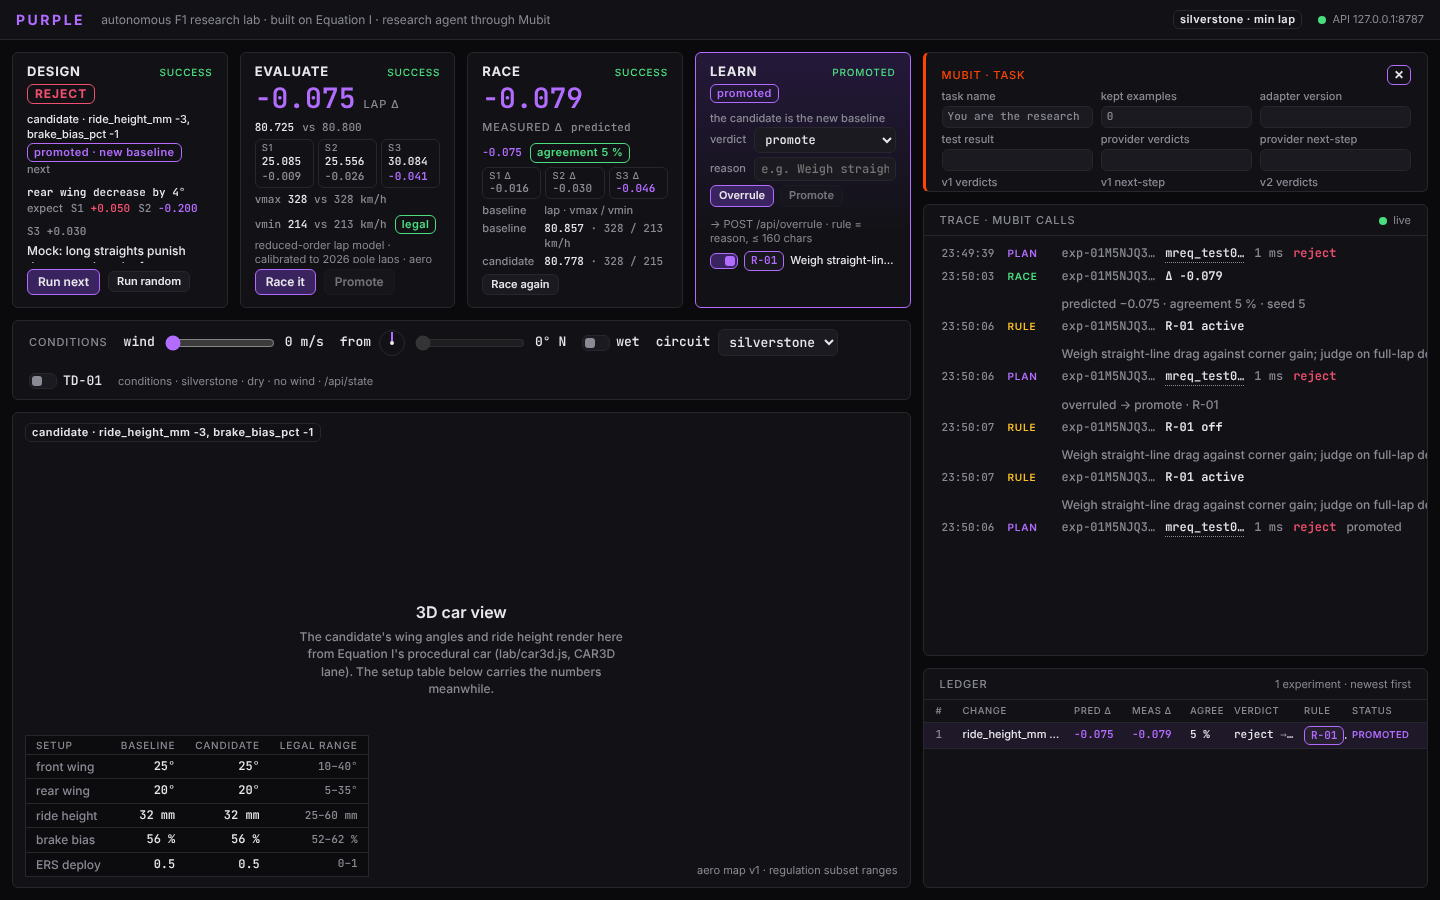
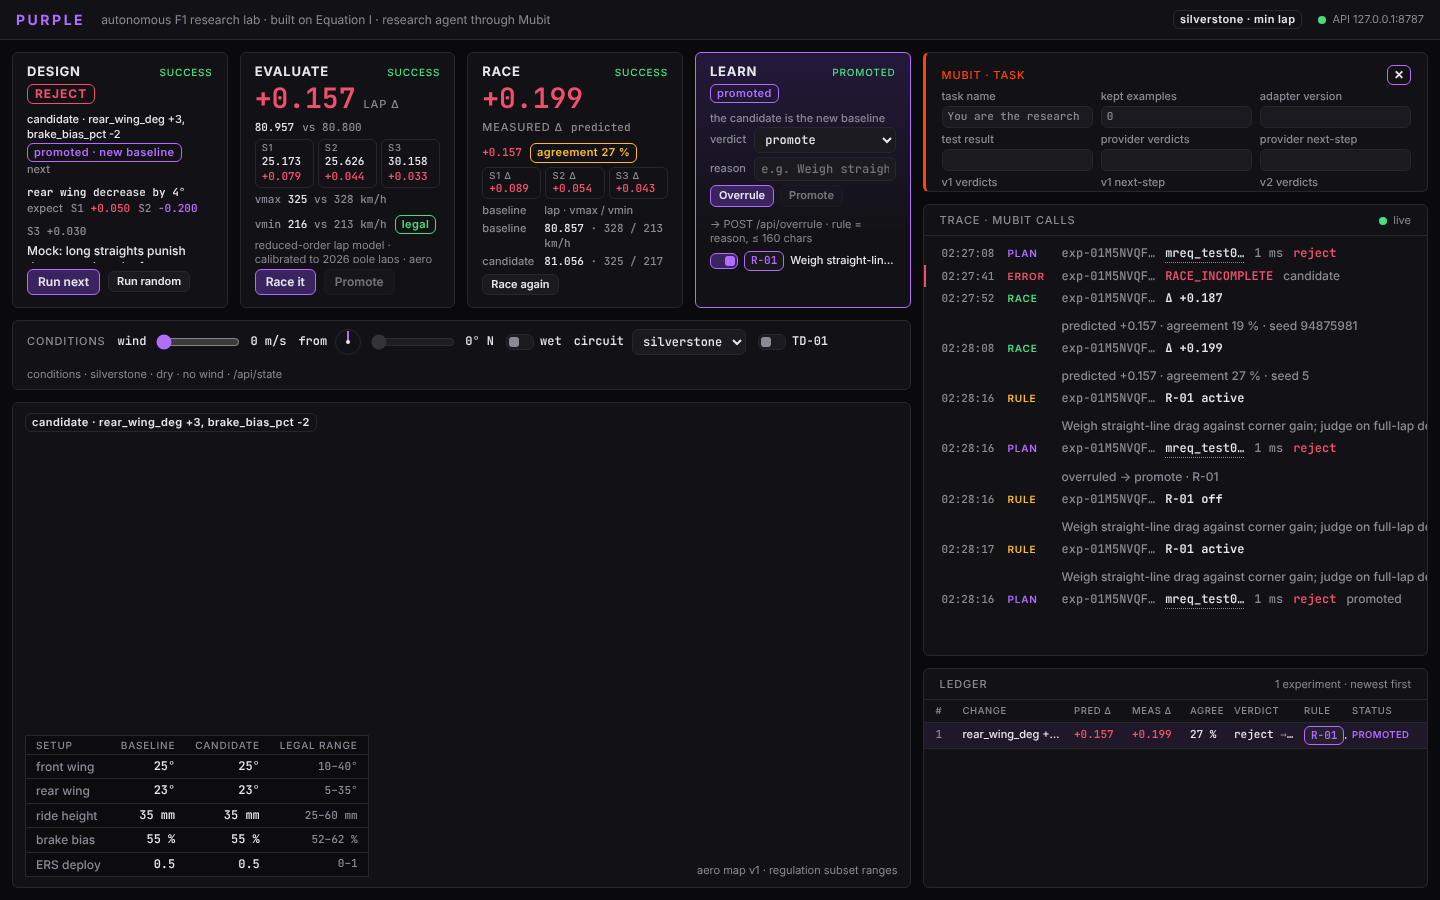
P3.T2: UI polish round 1 — SERVER review fixes, race clock + 6-min timeout, real 3D car wired, re-verified with web security on
lab/lab.js: retry reuses x-client-id after NETWORK/BAD_RESPONSE; widget reads last_console_read_at, budget line, prompt hash;
incomplete purple:result -> RACE_INCOMPLETE with Race again instead of a 400; elapsed clock on the RACE card and NO_RESULT
after 6 minutes; overrule uses the server row; saveStatus sends only changed exam keys; car3d setBaseline + mount error shown.
lab/index.html: loads season2026, ads (brand dir), teams, liveries, carglb so lab/car3d.js mounts. lab/lab.css: setup table
bottom-right, hidden while racing. Screenshots refreshed.

Claude-Session: https://claude.ai/code/session_01LerQvr7T9YvRQxL76EErVH

diff --git a/lab/lab.js b/lab/lab.js
@@ -8,6 +8,7 @@
   const LAPS = 3;                                   // F-04.AC1: three laps, no input
   const FLAT = 0.03;                                // DeltaCell: |Δ| ≤ 0.03 s is grey (the prompt's own retest band)
   const TRACE_MAX = 200, BACKFILL = 12;
+  const RACE_TIMEOUT_MS = 6 * 60 * 1000;             // EVAL_GUARDRAILS §6: no purple:result within 6 minutes -> "No result received"
   const $ = (s, root) => (root || document).querySelector(s);
   const isNum = v => typeof v === "number" && Number.isFinite(v);
   const reduced = () => window.matchMedia && window.matchMedia("(prefers-reduced-motion: reduce)").matches;
@@ -151,8 +152,9 @@
   function renderRace() {
     const x = S.current, e = S.err.race, m = x && x.measured;
     if (S.busy.raceResult) return card("race", { state: "loading", stateLabel: "posting result", body: [el("p", { text: "POST /api/race/result" })] });
-    if (e) return card("race", { state: "error", body: errBody(e), foot: [btn("Retry", e.retry, { cls: "primary" }), btn("Back to 3D view", cancelRace, { cls: "small" })] });
+    if (e) return card("race", { state: "error", body: errBody(e), foot: [e.again ? btn("Race again", raceIt, { cls: "primary" }) : btn("Retry", e.retry, { cls: "primary" }), btn("Back to 3D view", cancelRace, { cls: "small" })] });
     if (S.racing) return card("race", { state: "loading", stateLabel: "racing", body: [
+      el("div", { class: "row" }, el("span", { class: "big num", id: "raceClock", text: fmtClock(Date.now() - S.racing.started) }), el("span", { class: "label", text: "elapsed" }), el("span", { class: "muted sans", text: "a " + LAPS + "-lap race takes about 4½ minutes" })),
       el("p", { text: "Waiting for result · baseline vs candidate · same neutral driver · " + LAPS + " laps · seed " + S.racing.seed + "." }),
       el("div", { class: "src", text: "the game posts purple:result when the chequered flag falls" })], foot: [btn("Cancel", cancelRace, { cls: "small" })] });
     if (!m) return card("race", { state: "empty", body: [el("p", { text: "Race the candidate against the baseline in the game: same neutral driver, same seed, broadcast camera." })], foot: [btn("Race it", raceIt, { cls: "primary", disabled: !(x && x.evaluation && isNum(x.evaluation.lap)) })] });
@@ -197,19 +199,21 @@
     game.hidden = !racing; car.hidden = racing;
     if (!racing && game.getAttribute("src")) game.removeAttribute("src");
     const corner = $("#mainCorner");
-    corner.replaceChildren(...(racing ? [el("span", { class: "badge green", text: "RACE · baseline vs candidate" }), el("span", { class: "src", text: "seed " + S.racing.seed + " · " + LAPS + " laps · broadcast camera · neutral driver" })]
-      : [el("span", { class: "badge", text: x ? "candidate · " + (x.change || "no change") : "baseline" })]));
+    corner.replaceChildren(...(racing ? [] : [el("span", { class: "badge", text: x ? "candidate · " + (x.change || "no change") : "baseline" })]));
     const setup = x ? x.candidate : (S.illegalCandidate || (S.state && S.state.baseline));
     if (EI.labCar3D && !racing) {
       try {
         if (!S.car3dMounted) { EI.labCar3D.mount(car); S.car3dMounted = true; }
         const key = JSON.stringify(setup || null);
-        if (setup && key !== S.car3dSetupKey) { S.car3dSetupKey = key; EI.labCar3D.setSetup(setup); if (x && EI.labCar3D.hero) EI.labCar3D.hero(); }
-      } catch (e) { /* the 3D view is decorative; the numbers below are the product */ }
-      empty.hidden = true;
+        if (setup && key !== S.car3dSetupKey) { S.car3dSetupKey = key; if (EI.labCar3D.setBaseline) EI.labCar3D.setBaseline(x ? x.baseline : null); EI.labCar3D.setSetup(setup); }
+      } catch (e) {   // the 3D view is decorative; the numbers below are the product. Say why it is missing rather than hide it.
+        S.car3dError = String(e && e.message || e);
+        $("#mainEmpty .inner").replaceChildren(el("div", { class: "h", text: "3D car view unavailable" }), el("span", { text: S.car3dError }));
+      }
+      empty.hidden = S.car3dMounted && !S.car3dError;
     } else empty.hidden = racing;
     $("#mainSrc").textContent = racing ? "Equation I · ?lab=1 broadcast mode" : S.car3dMounted ? "procedural car · wing angles and ride height from the setup · aero map v1" : "aero map v1 · regulation subset ranges";
-    $("#setupBox").replaceChildren(setupTable());
+    $("#setupBox").replaceChildren(racing ? el("span") : setupTable());   // while racing the game's HUD owns the frame
   }
   function setupTable() {
     const aero = EI.aero; if (!aero) return el("span");
@@ -229,7 +233,7 @@
 
   // ---- MubitWidget: GET /api/status; edit form POSTs partial values (the console is the source, this is the copy)
   function renderWidget(editing) {
-    const w = $("#widget"), s = S.status || {}, ex = s.exam || {}, total = ex.total || 20;
+    const w = $("#widget"), s = S.status || {}, ex = s.exam || {}, total = ex.total || 20, b = s.budget;
     const examLine = (who, v, p) => (isNum(v) || isNum(p) ? el("div", { class: "exam" }, el("b", { text: who }), " " + (isNum(v) ? v + "/" + total + " verdicts" : "—") + (isNum(p) ? " · " + p + "/" + total + " next-step" : "")) : null);
     const head = el("div", { class: "head" }, el("span", { class: "label", text: "Mubit · task" }), el("button", { class: "btn icon", type: "button", "aria-label": editing ? "cancel editing" : "edit status (values from the console)", title: "edit values copied from the console", onclick: () => renderWidget(!editing) }, editing ? "✕" : "✎"));
     if (editing) {
@@ -250,16 +254,18 @@
         el("div", { class: "fact" }, el("div", { class: "label", text: "calls" }), el("div", { class: "v num", text: isNum(s.calls_total) ? s.calls_total + " · " + s.calls_trained + " trained" : "—" }))),
       examLine("provider", ex.provider, ex.provider_param) || el("div", { class: "exam muted sans", text: "exam not run yet (20 held-out scenarios, truth from the evaluator)" }),
       examLine("v1", ex.v1, ex.v1_param), examLine("v2", ex.v2, ex.v2_param),
-      el("div", { class: "src upd", text: (s.updated_at ? "updated from console " + hhmm(s.updated_at) : "not yet read from the console") + " · " + (s.model || "") + (s.prompt_version ? " · prompt v" + s.prompt_version : "") })].filter(Boolean));
+      el("div", { class: "src upd" },
+        el("span", { text: (s.last_console_read_at ? "updated from console " + hhmm(s.last_console_read_at) : s.updated_at ? "status written " + hhmm(s.updated_at) + " · console not read yet" : "not yet read from the console") + " · " + (s.model || "") + (s.prompt_version ? " · prompt v" + s.prompt_version : "") + (s.prompt_hash ? " " + String(s.prompt_hash).slice(0, 8) : "") }),
+        b ? el("span", { class: "budget", title: "Mubit daily budget: calls today by UTC day; resets " + (b.resets_at ? hhmm(b.resets_at) + " local (" + (b.boundary || "00:00 UTC") + ")" : "00:00 UTC"), text: "budget today (UTC) · trained " + (b.trained_today_utc ?? "—") + " · untrained " + (b.untrained_today_utc ?? "—") + (b.resets_at ? " · resets " + hhmm(b.resets_at) : "") }) : null)].filter(Boolean));
   }
   async function saveStatus(fd) {
-    const patch = {}, exam = Object.assign({}, (S.status && S.status.exam) || {});
+    const patch = {}, exam = {}, cur = (S.status && S.status.exam) || {};
     const num = v => (v === "" || v == null ? undefined : Number(v));
     for (const k of ["task_name", "adapter_version", "test_result"]) { const v = fd.get(k); if (v != null && String(v).trim() !== "" && v !== (S.status || {})[k]) patch[k] = String(v).trim(); }
     const ke = num(fd.get("kept_examples")); if (isNum(ke)) patch.kept_examples = ke;
     let examChanged = false;
-    for (const k of ["provider", "provider_param", "v1", "v1_param", "v2", "v2_param"]) { const v = num(fd.get(k)); if (isNum(v) && exam[k] !== v) { exam[k] = v; examChanged = true; } }
-    if (examChanged) patch.exam = Object.assign({ total: 20 }, exam);
+    for (const k of ["provider", "provider_param", "v1", "v1_param", "v2", "v2_param"]) { const v = num(fd.get(k)); if (isNum(v) && cur[k] !== v) { exam[k] = v; examChanged = true; } }
+    if (examChanged) patch.exam = isNum(cur.total) ? exam : Object.assign({ total: 20 }, exam);   // POST /api/status merges one level deep (D-S15)
     try { S.status = await api("POST", "/api/status", patch); clearBanner(); renderWidget(false); }
     catch (e) { banner(e); renderWidget(false); }
   }
@@ -326,7 +332,7 @@
     on("race", d => {
       const m = d.measured || {};
       trace({ kind: "race", key: "race:" + d.id + ":" + m.at, at: m.at, session: d.session_id, verdict: "Δ " + fmtD(m.measured_delta), note: "predicted " + fmtD(m.predicted_delta) + " · agreement " + fmtPct(m.agreement_pct) + " · seed " + m.seed });
-      if (S.racing && S.racing.id === d.id) { S.racing = null; S.busy.raceResult = false; S.active = "race"; }
+      if (S.racing && S.racing.id === d.id) { stopRaceClock(); S.racing = null; S.busy.raceResult = false; S.active = "race"; }
       if (!S.current || S.current.id === d.id) S.current = d;
       renderAll();
     });
@@ -347,10 +353,10 @@
   async function refreshRules() { try { S.rules = await api("GET", "/api/rules"); renderLearn(); } catch (e) { /* same */ } }
 
   // ---- actions
-  async function runPlan(o) {
+  async function runPlan(o, clientId) {
     o = o || {};
     if (S.busy.plan) return;
-    const clientId = uuid();
+    clientId = clientId || uuid();   // a retry after NETWORK/BAD_RESPONSE reuses the id: the server dedupes x-client-id for 10 s, so a lost response never costs a second trained call
     const body = {}; if (o.random) body.random = true;
     if (o.candidate || o.conditions || o.seed != null || o.circuit) body.scenario_overrides = Object.assign({}, o.candidate ? { candidate: o.candidate } : {}, o.conditions ? { conditions: o.conditions } : {}, o.seed != null ? { seed: o.seed } : {}, o.circuit ? { circuit: o.circuit } : {});
     S.busy.plan = true; delete S.err.design; S.illegalCandidate = null; S.active = "design"; clearBanner(); renderAll();
@@ -359,7 +365,7 @@
       const x = await api("POST", "/api/plan", body, { "x-client-id": clientId });
       S.current = x; S.active = "evaluate"; traceExperiment(x);
     } catch (e) {
-      e.retry = () => runPlan(o);
+      e.retry = () => runPlan(o, e.code === "NETWORK" || e.code === "BAD_RESPONSE" ? clientId : undefined);
       if (e.code === "ILLEGAL_SETUP") { S.illegalCandidate = e.extra.candidate || null; trace({ kind: "error", session: "client " + clientId.slice(0, 8), error: "ILLEGAL_SETUP", note: (e.extra.violations || []).map(id => EI.aero && EI.aero.describeViolation ? EI.aero.describeViolation(id) : id).join(" · ") || e.message }); }
       else if (e.extra && e.extra.experiment) { S.current = e.extra.experiment; }
       else if (e.code === "NETWORK" || e.code === "BAD_RESPONSE") trace({ kind: "error", session: "client " + clientId.slice(0, 8), error: e.code, note: e.endpoint });
@@ -373,22 +379,46 @@
     const q = new URLSearchParams({ lab: "1", exp: x.id, seed: String(x.seed), laps: String(LAPS), circuit, baseline: b64(x.baseline), candidate: b64(x.candidate),
       mult_baseline: b64(EI.aero.toMultipliers(x.baseline, c)), mult_candidate: b64(EI.aero.toMultipliers(x.candidate, c)) });
     S.racing = { id: x.id, seed: x.seed, started: Date.now() }; delete S.err.race; S.active = "race"; clearBanner();
-    renderAll();
+    renderAll(); startRaceClock();
     $("#game").src = "../index.html?" + q.toString();
   }
-  function cancelRace() { S.racing = null; delete S.err.race; S.busy.raceResult = false; renderAll(); }
+  function cancelRace() { stopRaceClock(); S.racing = null; delete S.err.race; S.busy.raceResult = false; renderAll(); }
   function carsFrom(d) {   // tolerate { baseline: {…}, candidate: {…} } as well as the contract's cars[] (SERVER lane, P1.T3 entry)
     if (Array.isArray(d.cars)) return d.cars;
     if (d.baseline && d.candidate) return ["baseline", "candidate"].map(role => Object.assign({ role }, d[role]));
     return undefined;
   }
+  // a car that never completed a lap posts null lap/sectors/speeds; the server would 400 on the field, so say "race incomplete" instead of relaying
+  const carIncomplete = k => !k || !isNum(k.lap) || !Array.isArray(k.sectors) || k.sectors.length !== 3 || !k.sectors.every(isNum) || !isNum(k.vmax_kmh) || !isNum(k.vmin_becketts_kmh);
   window.addEventListener("message", ev => {   // ARCHITECTURE §10: same-origin game iframe only, and only the result message
     if (ev.origin !== location.origin) return;
     const d = ev.data; if (!d || typeof d !== "object" || d.type !== "purple:result") return;
     const cars = carsFrom(d);
     const payload = { experiment_id: d.experiment_id || d.exp || (S.racing && S.racing.id), seed: Number.isInteger(d.seed) ? d.seed : Number.isInteger(+d.seed) ? +d.seed : (S.racing ? S.racing.seed : undefined), cars };
-    postRaceResult(payload);
+    if (!Array.isArray(cars) || cars.length !== 2 || cars.some(carIncomplete)) {
+      const who = Array.isArray(cars) ? cars.filter(carIncomplete).map(k => (k && k.role) || "car").join(", ") : "both cars";
+      stopRaceClock(); S.racing = null; S.err.race = Object.assign(new ApiErr("RACE_INCOMPLETE", "purple:result (game iframe)", "race incomplete: no completed lap for " + who + "; nothing was posted"), { again: true });
+      trace({ kind: "error", session: payload.experiment_id ? "exp-" + payload.experiment_id : null, error: "RACE_INCOMPLETE", note: who }); renderAll(); return;
+    }
+    stopRaceClock(); postRaceResult(payload);
   });
+  // the race clock: elapsed time on the RACE card while the game runs; "No result received" after RACE_TIMEOUT_MS
+  let raceTimer = null;
+  function startRaceClock() {
+    stopRaceClock();
+    raceTimer = setInterval(() => {
+      if (!S.racing) return stopRaceClock();
+      const ms = Date.now() - S.racing.started;
+      if (ms >= RACE_TIMEOUT_MS) {
+        stopRaceClock(); S.racing = null;
+        S.err.race = Object.assign(new ApiErr("NO_RESULT", "purple:result (game iframe)", "No result received within " + Math.round(RACE_TIMEOUT_MS / 60000) + " minutes; the ledger row stays as it was"), { again: true });
+        trace({ kind: "error", session: "exp-" + (S.current && S.current.id), error: "NO_RESULT", note: "no purple:result in " + Math.round(RACE_TIMEOUT_MS / 60000) + " min" }); renderAll(); return;
+      }
+      const n = $("#raceClock"); if (n) n.textContent = fmtClock(ms);
+    }, 1000);
+  }
+  function stopRaceClock() { if (raceTimer) clearInterval(raceTimer); raceTimer = null; }
+  const fmtClock = ms => { const t = Math.floor(ms / 1000); return String(Math.floor(t / 60)).padStart(2, "0") + ":" + String(t % 60).padStart(2, "0"); };
   async function postRaceResult(payload) {
     S.lastRacePayload = payload; S.busy.raceResult = true; delete S.err.race; renderAll();
     try { const row = await api("POST", "/api/race/result", payload); S.current = row; S.racing = null; S.active = "race"; clearBanner(); }
@@ -406,7 +436,7 @@
   async function overrule(verdict, reason) {
     const x = S.current; if (!x || S.busy.learn) return;
     S.busy.learn = "overruling"; delete S.err.learn; clearBanner(); renderAll();
-    try { const r = await api("POST", "/api/overrule", { experiment_id: x.id, verdict, reason }); S.current = Object.assign({}, x, { status: "overruled", overrule: { verdict, reason, rule_id: r.rule.id, by: "engineer", at: r.rule.created_at } }); S.active = "learn"; await refreshRules(); }
+    try { const r = await api("POST", "/api/overrule", { experiment_id: x.id, verdict, reason }); S.current = r.experiment || Object.assign({}, x, { status: "overruled", overrule: { verdict, reason, rule_id: r.rule.id, by: "engineer", at: r.rule.created_at } }); S.active = "learn"; await refreshRules(); }
     catch (e) { e.retry = () => overrule(verdict, reason); S.err.learn = e; banner(e); }
     finally { S.busy.learn = false; renderAll(); scheduleLedger(); }
   }

diff --git a/lab/index.html b/lab/index.html
@@ -67,8 +67,28 @@
 <script src="../js/util.js"></script>
 <script src="../js/data/silverstone.js"></script>
 <script src="../js/data/monza.js"></script>
+<script src="../js/data/season2026.js"></script>
+<script src="../js/ads.js"></script>
+<script>// the game resolves its brand artwork relative to the page; from lab/ that is one level up (as lab/car3d-test.html does)
+  if (window.EI && EI.Ads) { EI.Ads.BRAND_DIR = '../assets/brand/'; EI.Ads.PARTNER_DIR = EI.Ads.BRAND_DIR + 'partners/'; }</script>
+<script src="../js/teams.js"></script>
+<script src="../js/liveries.js"></script>
+<script src="../js/liveries/mercedes.js"></script>
+<script src="../js/liveries/ferrari.js"></script>
+<script src="../js/liveries/mclaren.js"></script>
+<script src="../js/liveries/redbull.js"></script>
+<script src="../js/liveries/racingbulls.js"></script>
+<script src="../js/liveries/alpine.js"></script>
+<script src="../js/liveries/haas.js"></script>
+<script src="../js/liveries/audi.js"></script>
+<script src="../js/liveries/williams.js"></script>
+<script src="../js/liveries/astonmartin.js"></script>
+<script src="../js/liveries/cadillac.js"></script>
+<script src="../js/liveries/lumi.js"></script>
+<script src="../js/liveries/intake.js"></script>
 <script src="../js/track.js"></script>
 <script src="../js/carmodel.js"></script>
+<script src="../js/carglb.js"></script>
 <script src="../js/car.js"></script>
 <script src="../js/ai.js"></script>
 <script src="aero.js"></script>

diff --git a/lab/lab.css b/lab/lab.css
@@ -114,7 +114,7 @@ body.has-banner .lab { height: calc(100% - 40px - 41px); }
 #car3d { position: absolute; inset: 0; }
 #car3d canvas { display: block; width: 100%; height: 100%; }
 #game { position: absolute; inset: 0; width: 100%; height: 100%; border: 0; background: #000; }
-.main .overlay { position: absolute; left: 12px; right: 12px; bottom: 10px; display: flex; justify-content: space-between; align-items: flex-end; gap: 12px; pointer-events: none; }
+.main .overlay { position: absolute; left: 12px; right: 12px; bottom: 10px; display: flex; flex-direction: row-reverse; justify-content: space-between; align-items: flex-end; gap: 12px; pointer-events: none; }   /* table bottom-right: the hero angle puts the front wing bottom-left */
 .main .overlay > * { pointer-events: auto; }
 .main .corner { position: absolute; top: 10px; left: 12px; display: flex; gap: 8px; align-items: center; }
 .setup-table { border-collapse: collapse; font-size: 12px; background: rgba(10,10,12,.72); border: 1px solid var(--line); border-radius: var(--r); }
@@ -223,3 +223,4 @@ body.has-banner .lab { height: calc(100% - 40px - 41px); }
 /* conditions bar while a POST /api/state is in flight */
 .cond.busy { opacity: .7; }
 .cond input:disabled { opacity: .35; }
+.widget .budget { display: block; color: var(--mubit); opacity: .85; }

diff --git a/docs/agents/lanes/UI.md b/docs/agents/lanes/UI.md
@@ -1,10 +1,26 @@
 # Lane UI
 
-Status: done P2.T1 (branch `claude/ui-p2-panel`) and P2.T6 UI side (branch `claude/ui-p2-conditions`, stacked on it); both PRs open into `claude/amazing-planck-804i13`, merge panel first. Next: re-verify in a normal Chromium once CORS lands, P3.T2 polish. Owner: agent D (Claude, session `session_01LerQvr7T9YvRQxL76EErVH`). Blocker for a real browser: the API needs CORS for `http://127.0.0.1:8788` (proposal below, SERVER lane one-liner).
+Status: P2.T1 + P2.T6 merged (#16, #17); P3.T2 polish round 1 (SERVER review fixes, race clock + 6-min timeout, real 3D car wired, loop re-verified with web security ON) on branch `claude/ui-p3-polish`, PR open into `claude/amazing-planck-804i13`. Next: real-GPU race check on the demo laptop, DESIGN_SYSTEM §8 checklist pass. Owner: agent D (Claude, session `session_01LerQvr7T9YvRQxL76EErVH`). Blocker for a real browser: the API needs CORS for `http://127.0.0.1:8788` (proposal below, SERVER lane one-liner).
 
 Owns: see `docs/agents/PARALLEL_PLAN.md` §1 (`lab/index.html`, `lab/lab.js`, `lab/lab.css`, this file). Update this file at the end of every session (dated section on top; keep older ones).
 
 ## Sessions
+
+### 2026-10-24 03:35 London — agent D (Claude) — P3.T2 polish round 1: SERVER review fixes, race clock, real 3D car, re-verify with web security ON
+- Status: done, PR open into `claude/amazing-planck-804i13` (branch `claude/ui-p3-polish`, cut from df2733f). `npm test` green (no lab tests). No Mubit calls (`MUBIT_MOCK=1`).
+- Files changed: `lab/lab.js`, `lab/lab.css`, `lab/index.html` (script list), `docs/agents/lanes/ui-screens/*.png` refreshed + `00-baseline-3d.png`, `04b-race-incomplete.png`, `05a-race-success-relay.png`, `13-real-race-running.png`, `14-real-race-result.png`, this file.
+- SERVER lane review (`SERVER.md` 02:50 entry), all five done: (1) a Retry after `NETWORK` / `BAD_RESPONSE` on `/api/plan` reuses the same `x-client-id` (the server dedupes for 10 s; no second trained call); (2) the widget's "updated from console" reads `last_console_read_at` (falls back to "status written HH:MM · console not read yet"); (3) a `purple:result` whose car has a null lap / sector / vmax / vmin is not forwarded: RACE shows `RACE_INCOMPLETE · purple:result (game iframe)` with "Race again" (trace line `error RACE_INCOMPLETE candidate`); (4) widget shows `budget today (UTC) · trained n · untrained n · resets HH:MM` and `prompt v1 6c5be1a3`; (5) `overrule()` takes `r.experiment` from the server; `saveStatus` sends only changed exam keys (D-S15 deep merge).
+- Integrator asks: RACE card shows an elapsed clock (`mm:ss`, 1 Hz) while the game runs; after 6 minutes without `purple:result` → error `NO_RESULT · purple:result (game iframe)` "No result received", ledger row untouched, "Race again" (EVAL_GUARDRAILS §6). `&exp=` was already on the Race-it URL.
+- 3D car (CAR3D merged): `lab/index.html` now loads what `lab/car3d.js` needs, in the order of `lab/car3d-test.html` (`season2026`, `ads` + the brand-dir fix, `teams`, `liveries` + 13 liveries, `carmodel`, `carglb`) between `js/data/*` and `track.js`; the view mounts on load with the baseline, `setBaseline(x.baseline)` + `setSetup(candidate)` on every new current experiment (ghost wings in purple, hero ease). A mount failure now shows its reason in the main-area hint instead of a blank panel. While racing the setup table and corner badge are hidden (the game HUD owns the frame); otherwise the table sits bottom-right, out of the front wing.
+- Verify step run + output (`MUBIT_MOCK=1`, fresh data dir, Chromium 1440×900 **with web security ON**, CORS from the integration branch):
+  - T-F06-AC1 / AC2 / AC3 as before (`01`, `02`, `10`); AC3 banner `POST /api/plan · NETWORK …`, Retry (same client id) → success.
+  - 3D: `EI.lab.state.car3dMounted === true`, canvas present, baseline on load (`00-baseline-3d.png`), candidate + ghost after Run (`03-plan-success.png`). Console: no lab warnings (SwiftShader GL notices only).
+  - Relay, synthetic `purple:result` posted from the game frame with the exact shape `js/main.js` posts: candidate `lap: null` → `RACE_INCOMPLETE`, nothing posted (`04b-race-incomplete.png`); complete result → `POST /api/race/result` → `+0.187 measured · predicted +0.157 · agreement 19 %` (`05a-race-success-relay.png`); `npm run fake-race` path still works (`05-race-success.png`).
+  - Real iframe race (`13-real-race-running.png`, `14-real-race-result.png`): the GAME broadcast mode starts and races baseline vs candidate in the iframe, but in this headless SwiftShader container it reached lap 1/3 after 5:38 of wall clock, so the 6-minute `NO_RESULT` state fired (`14`): that proves the timeout path, not the finish. **Needs one run on the demo laptop (real GPU, ~4.5 min)**; the relay itself is verified above with the game's own payload shape.
+  - Overrule (`r.experiment` on the card, `06`), rule toggle, Promote (`07`), widget edit with console-read stamp + budget line (`08`), conditions + TD-01 (`12`, `09`), stacked layout (`11`).
+- Decisions proposed: D-U7: a `purple:result` with an incomplete car is dropped client-side (`RACE_INCOMPLETE`, "Race again") rather than posted; the server never sees a 400 from the lab. D-U8: 6-minute race timeout is wall-clock per EVAL_GUARDRAILS §6; on a slow GPU the game can legitimately run longer, so "No result received" offers "Race again" and never writes anything.
+- Blockers / questions for Tanuj: one real-GPU race on the laptop to confirm the finish → `raced` row (expected ≈ 4.5 min; the integrator already has `01M5NHXH4RSEQ50VM955FK20B7` raced headless at agreement 19 %).
+- Next three actions: (1) DESIGN_SYSTEM §8 checklist with real `mreq_` ids (`npm run dev` on the laptop); (2) hero shot framing with the setup table bottom-right (check with CAR3D's final camera); (3) P3.T2 motion pass (number settle on ledger refresh, trace arrival under load).
 
 ### 2026-10-24 02:05 London — agent D (Claude) — P2.T6 UI side (F-09 ConditionsBar + TD-01 toggle)
 - Status: done, stacked on P2.T1 (branch `claude/ui-p2-conditions`; merge `claude/ui-p2-panel` first). `npm test` 58/58. No Mubit calls.
